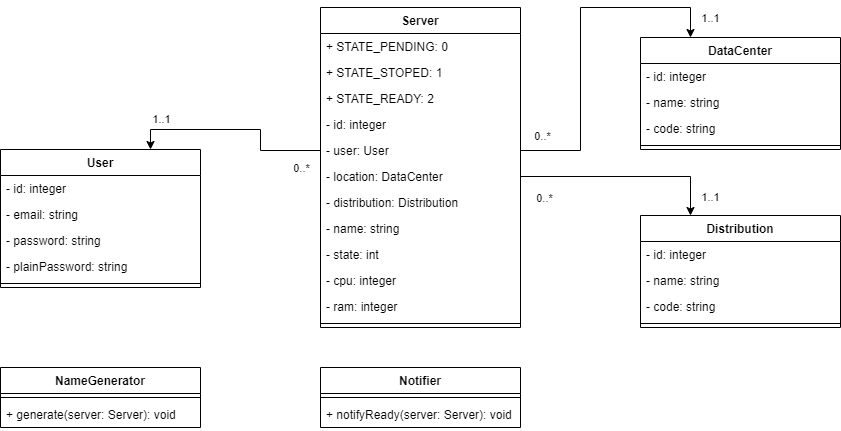
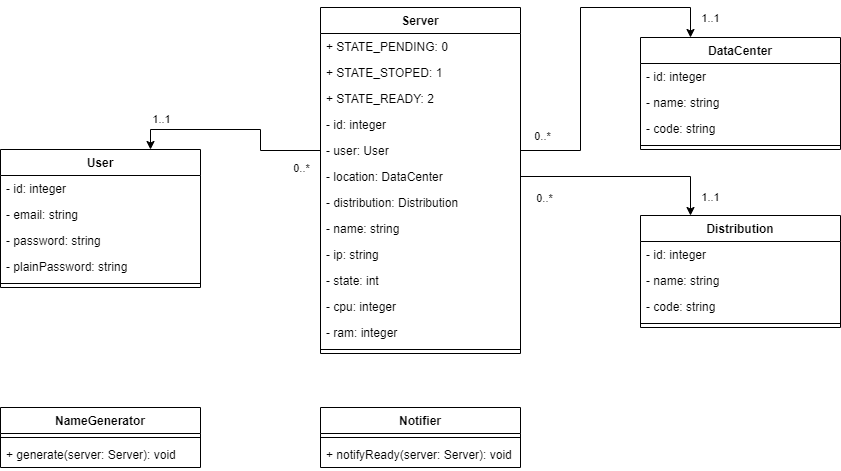
Improved doc and integration.

diff --git a/integration/account_profile.html b/integration/account_profile.html
@@ -5,7 +5,7 @@
     <meta charset="utf-8">
     <meta content="width=device-width, initial-scale=1.0" name="viewport">
 
-    <title>SeaCloud - Create server</title>
+    <title>SeaCloud - My Profile</title>
     <meta content="" name="description">
     <meta content="" name="keywords">
 
@@ -62,10 +62,10 @@
         <div class="container">
 
             <div class="d-flex justify-content-between align-items-center">
-                <h2>My profil</h2>
+                <h2>My profile</h2>
                 <ol>
                     <li><a href="index.html">Home</a></li>
-                    <li>My profil</li>
+                    <li>My profile</li>
                 </ol>
             </div>
 
@@ -83,7 +83,7 @@
                         <a href="account_dashboard.html" class="list-group-item list-group-item-action">
                             Dashboard
                         </a>
-                        <a href="account_profil.html" class="list-group-item list-group-item-action">
+                        <a href="account_profile.html" class="list-group-item list-group-item-action">
                             My profil
                         </a>
                         <a href="#" class="list-group-item list-group-item-action">
@@ -97,22 +97,22 @@
 
                     <form>
                         <div class="mb-4">
-                            <label for="profil-email" class="form-label">Email address</label>
-                            <input type="email" class="form-control" id="profil-email" placeholder="email@example.com" readonly>
+                            <label for="profile-email" class="form-label">Email address</label>
+                            <input type="email" class="form-control" id="profile-email" value="email@example.com" readonly>
                         </div>
 
                         <div class="row mb-4">
                             <div class="col">
-                                <label for="signup-password" class="form-label">Password</label>
-                                <input type="password" class="form-control" id="signup-password" placeholder="" value="" required="">
+                                <label for="profile-password" class="form-label">Password</label>
+                                <input type="password" class="form-control" id="profile-password" required>
                                 <div class="invalid-feedback">
                                     Please enter your password.
                                 </div>
                             </div>
 
                             <div class="col">
-                                <label for="signup-confirmation" class="form-label">Confirmation</label>
-                                <input type="password" class="form-control" id="signup-confirmation" placeholder="" value="" required="">
+                                <label for="profile-confirmation" class="form-label">Confirmation</label>
+                                <input type="password" class="form-control" id="profile-confirmation" required>
                                 <div class="invalid-feedback">
                                     Please enter your password confirmation.
                                 </div>

diff --git a/integration/account_dashboard.html b/integration/account_dashboard.html
@@ -83,7 +83,7 @@
                         <a href="account_dashboard.html" class="list-group-item list-group-item-action">
                             Dashboard
                         </a>
-                        <a href="account_profil.html" class="list-group-item list-group-item-action">
+                        <a href="account_profile.html" class="list-group-item list-group-item-action">
                             My profil
                         </a>
                         <a href="#" class="list-group-item list-group-item-action">
@@ -105,12 +105,12 @@
                                 <div class="card-body">
                                     <h4 class="mb-3">SC-NY-Ubuntu-01</h4>
                                     <p>
-                                        <strong>IP</strong>
-                                        <span class="text-muted">255.255.255.255</span>
-                                    </p>
-                                    <p>
                                         <strong>Status</strong>
                                         <span class="badge bg-success">Ready</span>
+                                    </p>
+                                    <p>
+                                        <strong>IP</strong>
+                                        <span class="text-muted">255.255.255.255</span>
                                     </p>
                                 </div>
                             </div>
@@ -151,12 +151,12 @@
                                 <div class="card-body">
                                     <h4 class="mb-3">SC-AM-Debian-01</h4>
                                     <p>
-                                        <strong>IP</strong>
-                                        <span class="text-muted">128.128.128.128</span>
-                                    </p>
-                                    <p>
                                         <strong>Status</strong>
                                         <span class="badge bg-warning">Pending</span>
+                                    </p>
+                                    <p>
+                                        <strong>IP</strong>
+                                        <span class="text-muted">(not yet ready)</span>
                                     </p>
                                 </div>
                             </div>

diff --git a/integration/account_server-detail.html b/integration/account_server-detail.html
@@ -83,7 +83,7 @@
                         <a href="account_dashboard.html" class="list-group-item list-group-item-action">
                             Dashboard
                         </a>
-                        <a href="account_profil.html" class="list-group-item list-group-item-action">
+                        <a href="account_profile.html" class="list-group-item list-group-item-action">
                             My profil
                         </a>
                         <a href="#" class="list-group-item list-group-item-action">
@@ -101,12 +101,12 @@
                         </div>
                         <div class="card-body row">
                             <div class="col">
-                                <strong>IP</strong>
-                                <span class="text-muted">255.255.255.255</span>
-                            </div>
-                            <div class="col">
                                 <strong>Status</strong>
                                 <span class="badge bg-success">Ready</span>
+                            </div>
+                            <div class="col">
+                                <strong>IP</strong>
+                                <span class="text-muted">255.255.255.255</span>
                             </div>
                         </div>
                         <div class="card-body border-top">

diff --git a/integration/account_new-server.html b/integration/account_new-server.html
@@ -83,7 +83,7 @@
                         <a href="account_dashboard.html" class="list-group-item list-group-item-action">
                             Dashboard
                         </a>
-                        <a href="account_profil.html" class="list-group-item list-group-item-action">
+                        <a href="account_profile.html" class="list-group-item list-group-item-action">
                             My profil
                         </a>
                         <a href="#" class="list-group-item list-group-item-action">

diff --git a/README.md b/README.md
@@ -56,22 +56,23 @@ développeurs chargés de la mise en place de la plateforme de déploiement des 
     🔒 Reboot server | GET /account_reboot.php?id=[server-id] | Redémarrer le serveur ayant l'identifiant _[server-id]_ | 
     🔒 Reset server | GET /account_server-reset.php?id=[server-id] | Réinstaller le serveur ayant l'identifiant _[server-id]_ | 
     🔒 Delete server | POST /account_server-delete.php?id=[server-id] | Supprimer le serveur ayant l'identifiant _[server-id]_ | 
-    Server ready | GET /api_ready.php?id=[server-id] | Marquer un serveur comme "Démarré" _(appelée par la plateforme de déploiement)_ 
+    Server ready | GET /api_ready.php?id=[server-id]&ip=[ip-address] | Marquer un serveur comme "Démarré" _(appelée par la plateforme de déploiement)_ 
 
    💡 _Les pages marquées d'un cadenas (🔒) sont sécurisées : l'internaute doit être authentifié (connecté) pour y accéder_.
 
 
 3. Cycle de vie d'un serveur
 
-   * L'état initial d'un serveur est &laquo;En attente&raquo; (_STATE_PENDING_).
+   * L'état initial d'un serveur est &laquo;En attente&raquo; (_STATE_PENDING_) avec une adresse IP indéfinie (NULL).
    * Une fois le serveur déployé, la plateforme  de déploiement (gérée par d'autres développeurs) appelera 
-   l'url ```GET /api_ready.php?id=[server-id]``` pour marquer le serveur comme étant &laquo;Prêt&raquo; (_STATE_READY_).
-     Un email sera automatiquement envoyé au client pour l'informé du déploiement de sont serveur.
+     l'url ```GET /api_ready.php?id=[server-id]&ip=[ip-adress]``` pour marquer le serveur comme étant &laquo;Prêt&raquo; 
+     (_STATE_READY_) et lui attribuer une adresse IP. Un email sera automatiquement envoyé au client pour l'informé du 
+     déploiement de sont serveur.
    * Si le client décide de redémarrer un serveur, ce dernier passera en statut &laquo;Arrêté&raquo; (_STATE_STOPED_). 
      Une fois redémarré, la plate forme de déploiement appellera de nouveau l'url ```GET /api_ready.php?id=[server-id]```.
    * Si le client décide de réinitialiser un serveur, ce dernier passera en statut &laquo;En attente&raquo; 
-     (_STATE_PENDING_). Une fois re-déployé, la plate forme de déploiement appellera de nouveau l'url 
-     ```GET /api_ready.php?id=[server-id]```.
+     (_STATE_PENDING_) et son adresse IP sera supprimée (passée à NULL). Une fois re-déployé, la plate forme de 
+     déploiement appellera de nouveau l'url ```GET /api_ready.php?id=[server-id]```.
 
 
 ### Annexes
